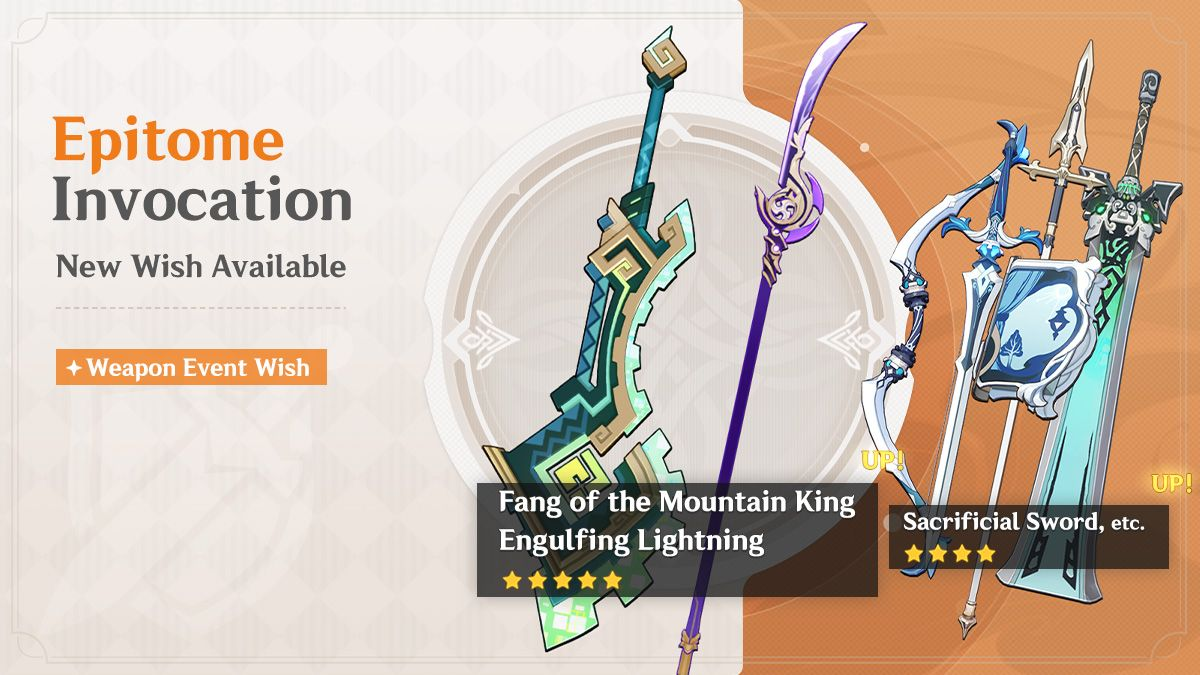
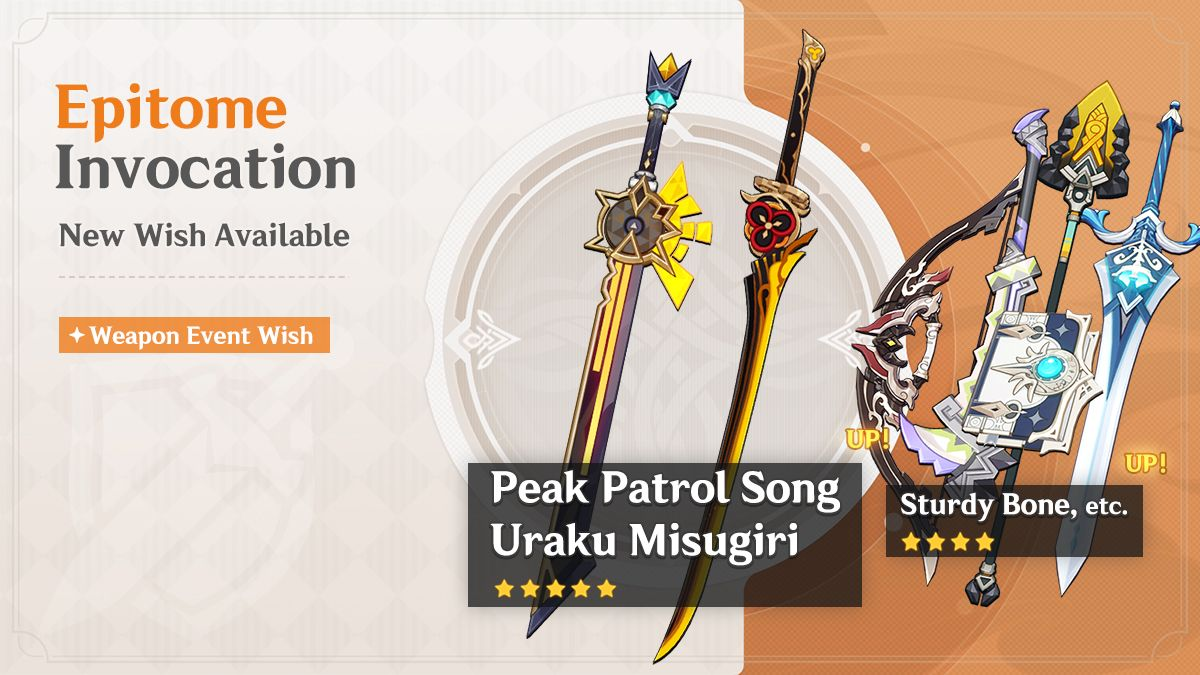
Genshin 5.1 Update

Changed region(s): [[0.37, 0.0311, 1.0, 1.0], [0.0308, 0.1244, 0.3083, 0.4356], [0.0308, 0.4667, 0.2775, 0.5911]]

diff --git a/GenshinWishCounter1.5/Service/DatabaseService.cs b/GenshinWishCounter1.5/Service/DatabaseService.cs
@@ -55,6 +55,7 @@ namespace GenshinWishCounter1._5.Service
             new FiveStarModel{ Name = "Wanderer", Type = CategoryStrings.Anemo, IsStandard = false },
             new FiveStarModel{ Name = "Wriothesley", Type = CategoryStrings.Cryo, IsStandard = false },
             new FiveStarModel{ Name = "Xianyun", Type = CategoryStrings.Anemo, IsStandard = false },
+            new FiveStarModel{ Name = "Xilonen", Type = CategoryStrings.Geo, IsStandard = false },
             new FiveStarModel{ Name = "Xiao", Type = CategoryStrings.Anemo, IsStandard = false },
             new FiveStarModel{ Name = "Yae Miko", Type = CategoryStrings.Electro, IsStandard = false },
             new FiveStarModel{ Name = "Yelan", Type = CategoryStrings.Hydro, IsStandard = false },
@@ -88,6 +89,7 @@ namespace GenshinWishCounter1._5.Service
             new FiveStarModel { Name = "Lumidouce Elegy", Type = CategoryStrings.Polearm, IsStandard = true },
             new FiveStarModel { Name = "Memory of Dust", Type = CategoryStrings.Catalyst, IsStandard = false },
             new FiveStarModel { Name = "Mistsplitter Reforged", Type = CategoryStrings.Sword, IsStandard = false },
+            new FiveStarModel { Name = "Peak Patrol Song", Type = CategoryStrings.Sword, IsStandard = false },
             new FiveStarModel { Name = "Polar Star", Type = CategoryStrings.Bow, IsStandard = false },
             new FiveStarModel { Name = "Primordial Jade Cutter", Type = CategoryStrings.Sword, IsStandard = false },
             new FiveStarModel { Name = "Primordial Jade Winged-Spear", Type = CategoryStrings.Polearm, IsStandard = true },
